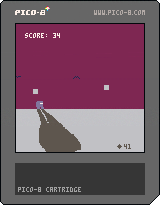
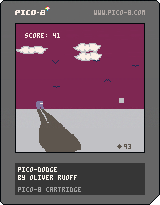
added clouds

diff --git a/pico-dodge.p8.js b/pico-dodge.p8.js
@@ -19,14 +19,14 @@ var _cartdat=[
 0,0,0,0,0,0,0,0,0,0,0,0,0,0,0,0,0,0,0,0,0,0,0,0,0,0,0,0,0,0,0,0,0,0,0,0,0,0,0,0,0,0,0,0,0,0,0,0,0,0,0,0,0,0,0,0,0,0,0,0,0,0,0,0,0,0,0,0,0,0,0,0,0,0,0,0,0,0,0,0,0,0,0,0,0,0,0,0,0,0,0,0,0,0,0,0,0,0,0,0,0,0,0,0,0,0,0,0,0,0,0,0,0,0,0,0,0,0,0,0,0,0,0,0,0,0,0,0,0,0,0,0,0,0,0,0,0,0,0,0,0,0,0,0,0,0,0,0,0,0,0,0,0,0,0,0,0,0,0,0,0,0,0,0,0,0,0,0,0,0,0,0,0,0,0,0,0,0,0,0,0,0,0,0,0,0,0,0,0,0,0,0,0,0,0,0,0,0,0,0,0,0,0,0,0,0,0,0,0,0,0,0,0,0,0,0,0,0,0,0,0,0,0,0,0,0,0,0,0,0,0,0,0,0,0,0,0,0,0,0,0,0,0,0,0,0,0,0,0,0,0,0,0,0,0,0,
 0,0,0,0,0,0,0,0,0,0,0,0,0,0,0,0,0,0,0,0,0,0,0,0,0,0,0,0,0,0,0,0,0,0,0,0,0,0,0,0,0,0,0,0,0,0,0,0,0,0,0,0,0,0,0,0,0,0,0,0,0,0,0,0,0,0,0,0,0,0,0,0,0,0,0,0,1,0,0,1,0,0,0,0,0,0,0,0,0,0,0,0,0,0,0,0,0,0,0,0,0,0,0,0,0,0,0,0,0,0,0,0,0,0,0,0,0,0,0,0,0,0,0,0,0,0,0,0,0,0,0,0,0,0,0,0,0,0,0,0,16,0,16,0,0,0,0,0,0,0,0,0,0,0,0,0,0,0,0,0,0,0,0,0,0,0,0,0,0,0,0,0,0,0,0,0,0,0,0,0,0,0,0,0,0,0,0,0,0,0,0,0,0,1,1,0,0,1,1,0,17,1,17,1,0,1,1,0,17,1,17,1,0,1,1,0,0,0,0,0,0,0,0,0,0,0,0,0,0,0,0,0,0,0,0,0,0,0,0,0,0,0,0,0,0,0,0,0,0,0,0,0,0,0,0,0,
 16,16,16,0,17,16,16,1,0,16,0,0,0,16,0,0,0,16,0,0,17,16,16,1,0,0,0,0,0,0,0,0,0,0,0,0,0,0,0,0,0,0,0,0,0,0,0,0,0,0,0,0,0,0,0,0,0,0,0,0,0,0,0,0,1,0,0,1,0,0,0,0,0,0,0,0,0,0,0,0,0,0,0,0,0,0,0,0,0,0,0,0,0,0,0,0,0,0,0,0,0,0,0,0,0,0,0,0,0,0,0,0,0,0,0,0,0,0,0,0,0,0,0,0,0,0,0,0,0,0,0,0,0,0,0,0,0,0,0,0,0,0,0,0,0,0,0,0,0,0,0,0,0,0,0,0,0,0,0,0,0,0,0,0,0,0,0,0,0,0,0,0,0,0,0,0,0,0,0,0,0,0,0,0,0,0,0,0,0,0,0,0,0,0,0,0,0,0,0,0,0,0,0,0,0,0,0,0,0,0,0,0,0,0,0,0,0,0,0,0,0,0,0,0,0,0,0,0,0,0,0,0,0,0,0,0,0,0,0,0,0,0,0,0,0,0,0,0,0,0,0,0,0,0,0,0,
-0,0,0,0,0,0,0,0,0,0,0,0,0,0,0,0,0,0,0,0,0,0,0,0,0,0,0,0,0,0,0,0,0,0,0,0,0,0,0,0,0,0,0,0,0,0,0,0,0,0,0,0,0,0,0,0,0,0,0,0,0,0,0,0,0,0,0,0,0,0,0,0,0,0,0,0,0,0,0,0,0,0,0,0,0,0,0,0,0,0,0,0,0,0,0,0,0,0,0,0,0,0,0,0,0,0,0,0,0,0,0,0,0,0,0,0,0,0,0,0,0,0,0,0,0,0,0,0,0,0,0,0,0,0,0,0,0,0,0,0,0,0,0,0,0,0,0,0,0,0,0,0,0,0,0,0,0,0,0,0,0,0,0,0,0,0,0,0,0,0,0,0,0,0,0,0,0,0,0,0,0,0,0,0,0,0,0,0,0,0,0,0,0,0,0,0,0,0,0,0,0,0,0,0,0,0,0,0,0,0,0,0,0,0,0,0,0,0,0,0,0,0,0,0,0,0,0,0,0,0,0,0,0,0,0,0,0,0,0,0,0,0,0,0,0,0,0,0,0,0,0,0,0,0,0,0,
-0,0,0,0,0,0,0,0,0,0,0,0,0,0,0,0,0,0,0,0,0,0,0,0,0,0,0,0,0,0,0,0,0,0,0,0,0,0,0,0,0,0,0,0,0,0,0,0,0,0,0,0,0,0,0,0,0,0,0,0,0,0,0,0,0,0,0,0,0,0,0,0,0,0,0,0,0,0,0,0,0,0,0,0,0,0,0,0,0,0,0,0,0,0,0,0,0,0,0,0,0,0,0,0,0,0,0,0,0,0,0,0,0,0,0,0,0,0,0,0,0,0,0,0,0,0,0,0,0,0,0,0,0,0,0,0,0,0,0,0,0,0,0,0,0,0,0,0,0,0,0,0,0,0,0,0,0,0,0,0,0,0,0,0,0,0,0,0,0,0,0,0,0,0,0,0,0,0,0,0,0,0,0,0,0,0,0,0,0,0,0,0,0,0,0,0,0,0,0,0,0,0,0,0,0,0,0,0,0,0,0,0,0,0,0,0,0,0,0,0,0,0,0,0,0,0,0,0,0,0,0,0,0,0,0,0,0,0,0,0,0,0,0,0,0,0,0,0,0,0,0,0,0,0,0,0,
-0,0,0,0,0,0,0,0,0,0,0,0,0,0,0,0,0,0,0,0,0,0,0,0,0,0,0,0,0,0,0,0,0,0,0,0,0,0,0,0,0,0,0,0,0,0,0,0,0,0,0,0,0,0,0,0,0,0,0,0,0,0,0,0,0,0,0,0,0,0,0,0,0,0,0,0,0,0,0,0,0,0,0,0,0,0,0,0,0,0,0,0,0,0,0,0,0,0,0,0,0,0,0,0,0,0,0,0,0,0,0,0,0,0,0,0,0,0,0,0,0,0,0,0,0,0,0,0,0,0,0,0,0,0,0,0,0,0,0,0,0,0,0,0,0,0,0,0,0,0,0,0,0,0,0,0,0,0,0,0,0,0,0,0,0,0,0,0,0,0,0,0,0,0,0,0,0,0,0,0,0,0,0,0,0,0,0,0,0,0,0,0,0,0,0,0,0,0,0,0,0,0,0,0,0,0,0,0,0,0,0,0,0,0,0,0,0,0,0,0,0,0,0,0,0,0,0,0,0,0,0,0,0,0,0,0,0,0,0,0,0,0,0,0,0,0,0,0,0,0,0,0,0,0,0,0,
-0,0,0,0,0,0,0,0,0,0,0,0,0,0,0,0,0,0,0,0,0,0,0,0,0,0,0,0,0,0,0,0,0,0,0,0,0,0,0,0,0,0,0,0,0,0,0,0,0,0,0,0,0,0,0,0,0,0,0,0,0,0,0,0,0,0,0,0,0,0,0,0,0,0,0,0,0,0,0,0,0,0,0,0,0,0,0,0,0,0,0,0,0,0,0,0,0,0,0,0,0,0,0,0,0,0,0,0,0,0,0,0,0,0,0,0,0,0,0,0,0,0,0,0,0,0,0,0,0,0,0,0,0,0,0,0,0,0,0,0,0,0,0,0,0,0,0,0,0,0,0,0,0,0,0,0,0,0,0,0,0,0,0,0,0,0,0,0,0,0,0,0,0,0,0,0,0,0,0,0,0,0,0,0,0,0,0,0,0,0,0,0,0,0,0,0,0,0,0,0,0,0,0,0,0,0,0,0,0,0,0,0,0,0,0,0,0,0,0,0,0,0,0,0,0,0,0,0,0,0,0,0,0,0,0,0,0,0,0,0,0,0,0,0,0,0,0,0,0,0,0,0,0,0,0,0,
-0,0,0,0,0,0,0,0,0,0,0,0,0,0,0,0,0,0,0,0,0,0,0,0,0,0,0,0,0,0,0,0,0,0,0,0,0,0,0,0,0,0,0,0,0,0,0,0,0,0,0,0,0,0,0,0,0,0,0,0,0,0,0,0,0,0,0,0,0,0,0,0,0,0,0,0,0,0,0,0,0,0,0,0,0,0,0,0,0,0,0,0,0,0,0,0,0,0,0,0,0,0,0,0,0,0,0,0,0,0,0,0,0,0,0,0,0,0,0,0,0,0,0,0,0,0,0,0,0,0,0,0,0,0,0,0,0,0,0,0,0,0,0,0,0,0,0,0,0,0,0,0,0,0,0,0,0,0,0,0,0,0,0,0,0,0,0,0,0,0,0,0,0,0,0,0,0,0,0,0,0,0,0,0,0,0,0,0,0,0,0,0,0,0,0,0,0,0,0,0,0,0,0,0,0,0,0,0,0,0,0,0,0,0,0,0,0,0,0,0,0,0,0,0,0,0,0,0,0,0,0,0,0,0,0,0,0,0,0,0,0,0,0,0,0,0,0,0,0,0,0,0,0,0,0,0,
-0,0,0,0,0,0,0,0,0,0,0,0,0,0,0,0,0,0,0,0,0,0,0,0,0,0,0,0,0,0,0,0,0,0,0,0,0,0,0,0,0,0,0,0,0,0,0,0,0,0,0,0,0,0,0,0,0,0,0,0,0,0,0,0,0,0,0,0,0,0,0,0,0,0,0,0,0,0,0,0,0,0,0,0,0,0,0,0,0,0,0,0,0,0,0,0,0,0,0,0,0,0,0,0,0,0,0,0,0,0,0,0,0,0,0,0,0,0,0,0,0,0,0,0,0,0,0,0,0,0,0,0,0,0,0,0,0,0,0,0,0,0,0,0,0,0,0,0,0,0,0,0,0,0,0,0,0,0,0,0,0,0,0,0,0,0,0,0,0,0,0,0,0,0,0,0,0,0,0,0,0,0,0,0,0,0,0,0,0,0,0,0,0,0,0,0,0,0,0,0,0,0,0,0,0,0,0,0,0,0,0,0,0,0,0,0,0,0,0,0,0,0,0,0,0,0,0,0,0,0,0,0,0,0,0,0,0,0,0,0,0,0,0,0,0,0,0,0,0,0,0,0,0,0,0,0,
-0,0,0,0,0,0,0,0,0,0,0,0,0,0,0,0,0,0,0,0,0,0,0,0,0,0,0,0,0,0,0,0,0,0,0,0,0,0,0,0,0,0,0,0,0,0,0,0,0,0,0,0,0,0,0,0,0,0,0,0,0,0,0,0,0,0,0,0,0,0,0,0,0,0,0,0,0,0,0,0,0,0,0,0,0,0,0,0,0,0,0,0,0,0,0,0,0,0,0,0,0,0,0,0,0,0,0,0,0,0,0,0,0,0,0,0,0,0,0,0,0,0,0,0,0,0,0,0,0,0,0,0,0,0,0,0,0,0,0,0,0,0,0,0,0,0,0,0,0,0,0,0,0,0,0,0,0,0,0,0,0,0,0,0,0,0,0,0,0,0,0,0,0,0,0,0,0,0,0,0,0,0,0,0,0,0,0,0,0,0,0,0,0,0,0,0,0,0,0,0,0,0,0,0,0,0,0,0,0,0,0,0,0,0,0,0,0,0,0,0,0,0,0,0,0,0,0,0,0,0,0,0,0,0,0,0,0,0,0,0,0,0,0,0,0,0,0,0,0,0,0,0,0,0,0,0,
-0,0,0,0,0,0,0,0,0,0,0,0,0,0,0,0,0,0,0,0,0,0,0,0,0,0,0,0,0,0,0,0,0,0,0,0,0,0,0,0,0,0,0,0,0,0,0,0,0,0,0,0,0,0,0,0,0,0,0,0,0,0,0,0,0,0,0,0,0,0,0,0,0,0,0,0,0,0,0,0,0,0,0,0,0,0,0,0,0,0,0,0,0,0,0,0,0,0,0,0,0,0,0,0,0,0,0,0,0,0,0,0,0,0,0,0,0,0,0,0,0,0,0,0,0,0,0,0,0,0,0,0,0,0,0,0,0,0,0,0,0,0,0,0,0,0,0,0,0,0,0,0,0,0,0,0,0,0,0,0,0,0,0,0,0,0,0,0,0,0,0,0,0,0,0,0,0,0,0,0,0,0,0,0,0,0,0,0,0,0,0,0,0,0,0,0,0,0,0,0,0,0,0,0,0,0,0,0,0,0,0,0,0,0,0,0,0,0,0,0,0,0,0,0,0,0,0,0,0,0,0,0,0,0,0,0,0,0,0,0,0,0,0,0,0,0,0,0,0,0,0,0,0,0,0,0,
+0,0,0,0,0,0,0,0,0,0,0,0,0,0,0,0,0,0,0,0,0,0,0,0,0,0,0,0,0,0,0,0,0,0,0,0,0,0,0,0,0,0,0,0,0,0,0,0,0,0,0,0,0,0,0,0,0,0,0,0,0,0,0,0,0,0,0,0,0,96,102,0,0,0,0,0,0,0,0,0,0,0,0,0,0,96,102,0,0,0,0,0,0,0,0,0,0,0,0,0,0,0,0,0,0,0,0,0,0,0,0,0,0,0,0,0,0,0,0,0,0,0,0,0,0,0,0,0,0,0,0,0,96,102,103,6,0,0,0,0,0,0,0,0,0,0,0,0,96,102,103,102,102,0,0,0,0,0,0,0,0,0,0,0,0,0,0,0,0,0,0,0,0,0,0,0,0,0,0,0,0,0,0,0,0,0,0,0,0,0,0,0,0,0,0,102,102,119,103,102,102,0,0,0,0,0,0,0,0,0,0,96,102,119,103,119,103,102,6,0,0,0,0,0,0,0,0,0,0,0,0,0,0,0,0,0,0,0,0,0,0,0,0,0,0,0,0,0,0,0,0,0,0,0,0,0,
+0,0,102,118,102,119,119,118,103,102,0,0,0,0,0,0,0,0,96,102,102,119,119,118,119,103,6,0,0,0,0,0,0,0,0,0,0,0,0,0,0,0,0,0,0,0,0,0,0,0,0,0,0,0,0,0,0,0,0,0,0,0,0,0,0,96,102,119,119,119,119,119,103,6,0,0,0,0,0,0,0,0,96,102,119,119,119,119,103,102,0,0,0,0,0,0,0,0,0,0,0,0,0,0,0,0,0,0,0,0,0,0,0,0,0,0,0,0,0,0,0,0,0,0,0,0,0,0,0,0,96,118,103,119,119,102,102,0,0,0,102,6,0,0,0,0,0,102,102,119,119,119,102,0,0,0,102,102,0,0,0,0,0,0,0,0,0,0,0,0,0,0,0,0,0,0,0,0,0,0,0,0,0,0,0,0,0,0,0,0,0,0,96,6,0,102,102,118,103,6,0,0,0,96,0,0,0,0,0,0,0,0,0,118,103,6,0,0,0,0,0,0,0,0,0,0,0,0,0,0,0,0,0,0,0,0,0,0,0,0,0,0,0,0,0,0,0,0,0,0,0,0,0,0,0,0,
+0,6,0,0,0,102,102,0,0,0,0,0,0,0,0,0,0,6,0,0,0,102,102,0,0,0,0,0,0,0,0,0,0,0,0,0,0,0,0,0,0,0,0,0,0,0,0,0,0,0,0,0,0,0,0,0,0,0,0,0,0,0,0,0,0,96,0,0,0,0,0,0,0,0,0,0,0,0,0,0,0,96,6,0,0,0,0,0,0,0,0,0,0,0,0,0,0,0,0,0,0,0,0,0,0,0,0,0,0,0,0,0,0,0,0,0,0,0,0,0,0,0,0,0,0,0,0,0,0,0,0,0,0,0,0,0,0,0,0,0,0,0,0,0,0,0,6,0,0,0,0,0,0,0,0,0,0,0,0,0,0,0,0,0,0,0,0,0,0,0,0,0,0,0,0,0,0,0,0,0,0,0,0,0,0,0,0,0,0,0,0,0,0,0,0,0,0,0,0,0,0,0,0,0,0,0,0,0,0,0,0,0,0,0,0,0,0,0,0,0,0,0,0,0,0,0,0,0,0,0,0,0,0,0,0,0,0,0,0,0,0,0,0,0,0,0,0,0,0,0,0,0,0,0,0,0,
+0,0,0,0,0,0,0,0,0,0,0,0,0,0,0,0,0,0,0,0,0,0,0,0,0,0,0,0,0,0,0,0,0,0,0,0,0,0,0,0,0,0,0,0,0,0,0,0,0,0,0,0,0,0,0,0,0,0,0,0,0,0,0,0,0,0,0,0,102,102,6,0,96,102,102,102,0,0,0,0,0,0,0,0,102,102,6,0,96,102,0,0,0,0,0,0,0,0,0,0,102,102,6,0,96,102,102,102,0,0,0,0,0,0,0,0,0,0,0,0,0,0,0,0,0,0,0,0,0,0,0,102,118,119,102,102,102,119,119,103,6,0,0,0,0,0,0,96,118,119,102,102,102,119,102,6,0,0,0,0,0,0,0,102,118,119,102,102,102,119,119,103,6,0,0,0,0,0,0,0,0,0,0,0,0,0,0,0,0,0,0,0,0,0,0,118,119,119,102,119,103,119,119,119,103,102,6,0,0,0,0,118,119,119,102,119,103,119,119,102,0,0,0,0,0,0,0,118,119,119,102,119,103,119,119,119,103,102,6,0,0,0,0,0,0,0,0,0,0,0,0,0,0,0,0,0,
+0,0,102,118,119,119,119,119,103,119,119,119,103,102,6,0,0,0,102,118,119,119,119,119,103,119,119,103,6,0,0,0,0,0,102,118,119,119,119,119,103,119,119,119,119,119,6,0,0,0,0,0,0,0,0,0,0,0,0,0,0,0,0,0,96,102,118,119,119,119,119,119,119,119,119,119,102,0,0,0,0,0,118,119,119,119,119,119,119,119,119,119,102,0,0,0,96,102,118,119,119,119,119,119,119,119,119,119,119,103,0,0,0,0,0,0,0,0,0,0,0,0,0,0,0,0,0,0,0,102,119,119,119,119,119,119,119,119,119,103,6,0,0,0,0,0,102,102,119,119,119,119,119,119,119,103,0,0,0,0,0,102,119,119,119,119,119,119,119,119,119,119,119,102,0,0,0,0,0,0,0,0,0,0,0,0,0,0,0,0,0,0,0,96,102,103,119,119,118,119,103,118,103,102,0,96,102,0,0,0,0,96,102,119,118,119,103,118,103,6,0,96,102,0,0,96,102,103,119,119,118,119,103,118,119,119,103,0,0,0,0,0,0,0,0,0,0,0,0,0,0,0,0,0,0,0,
+0,0,96,102,118,119,102,119,102,102,102,0,0,6,0,0,0,0,0,0,96,102,102,119,102,102,102,0,0,0,0,6,0,0,96,102,118,119,102,119,102,102,102,119,102,0,0,0,0,0,0,0,0,0,0,0,0,0,0,0,0,0,0,0,0,0,0,0,102,102,102,102,6,0,0,0,0,0,0,0,0,0,0,0,0,96,102,102,6,0,0,0,0,0,0,0,0,0,0,0,102,102,102,102,6,0,96,102,6,0,0,0,0,0,0,0,0,0,0,0,0,0,0,0,0,0,0,0,0,0,0,0,0,0,0,0,0,0,0,0,0,0,0,0,0,0,0,0,0,0,0,0,0,0,0,0,0,0,0,0,0,0,0,0,0,0,0,0,0,0,0,0,0,0,0,0,0,0,0,0,0,0,0,0,0,0,0,0,0,0,0,0,0,0,0,0,0,0,0,0,0,0,0,0,0,0,0,0,0,0,0,0,0,0,0,0,0,0,0,0,0,0,0,0,0,0,0,0,0,0,0,0,0,0,0,0,0,0,0,0,0,0,0,0,0,0,0,0,0,0,0,0,0,0,0,0,
+0,0,0,0,0,0,0,0,0,0,96,102,0,102,102,0,0,0,0,0,0,0,0,0,0,96,102,102,0,102,102,0,0,0,0,0,0,0,0,0,0,0,0,0,0,0,0,0,0,0,0,0,0,0,0,0,0,0,0,0,0,0,0,0,0,0,0,0,6,0,0,0,0,0,96,103,102,119,103,6,0,0,0,0,0,0,0,0,102,102,119,103,102,119,103,6,0,0,0,0,0,0,0,0,0,0,0,0,0,0,0,0,0,0,0,0,0,0,0,0,0,0,0,0,0,0,0,0,0,0,0,0,96,102,0,0,0,96,118,119,103,119,119,102,0,0,0,0,96,102,0,0,102,119,119,119,103,119,119,102,0,0,0,0,0,0,0,0,0,0,0,0,0,0,0,0,0,0,0,0,0,0,0,0,0,0,0,0,0,0,0,0,0,0,0,0,0,0,0,0,96,102,102,119,103,119,103,0,0,0,0,0,0,0,6,0,96,118,119,119,103,119,103,6,0,0,0,0,0,0,0,0,0,0,0,0,0,0,0,0,0,0,0,0,0,0,0,0,0,0,0,0,0,0,0,0,
+96,0,6,0,0,0,0,0,0,0,96,102,119,103,6,0,0,0,0,0,0,0,0,0,0,102,102,102,119,119,102,0,0,0,0,0,0,0,0,0,0,0,0,0,0,0,0,0,0,0,0,0,0,0,0,0,0,0,0,0,0,0,0,0,0,102,96,0,0,0,0,0,0,0,0,96,102,102,0,0,0,102,96,0,0,0,0,0,0,0,96,102,102,102,0,0,0,0,0,0,0,0,0,0,0,0,0,0,0,0,0,0,0,0,0,0,0,0,0,0,0,0,0,0,0,0,0,0,0,0,0,0,0,0,0,0,0,0,0,0,0,0,0,0,0,0,0,0,0,0,0,0,0,0,0,0,0,0,0,0,0,0,0,0,0,0,0,0,0,0,0,0,0,0,0,0,0,0,0,0,0,0,0,0,0,0,0,0,0,0,0,0,0,0,0,0,0,0,0,0,0,0,0,0,0,0,0,0,0,0,0,0,0,0,0,0,0,0,0,0,0,0,0,0,0,0,0,0,0,0,0,0,0,0,0,0,0,0,0,0,0,0,0,0,0,0,0,0,0,0,0,0,0,0,0,0,
 0,0,0,0,0,0,0,0,0,0,0,0,0,0,0,0,0,0,0,0,0,0,0,0,0,0,0,0,0,0,0,0,0,0,0,0,0,0,0,0,0,0,0,0,0,0,0,0,0,0,0,0,0,0,0,0,0,0,0,0,0,0,0,0,0,0,0,0,0,0,0,0,0,0,0,0,0,0,0,0,0,0,0,0,0,0,0,0,0,0,0,0,0,0,0,0,0,0,0,0,0,0,0,0,0,0,0,0,0,0,0,0,0,0,0,0,0,0,0,0,0,0,0,0,0,0,0,0,0,0,0,0,0,0,0,0,0,0,0,0,0,0,0,0,0,0,0,0,0,0,0,0,0,0,0,0,0,0,0,0,0,0,0,0,0,0,0,0,0,0,0,0,0,0,0,0,0,0,0,0,0,0,0,0,0,0,0,0,0,0,0,0,0,0,0,0,0,0,0,0,0,0,0,0,0,0,0,0,0,0,0,0,0,0,0,0,0,0,0,0,0,0,0,0,0,0,0,0,0,0,0,0,0,0,0,0,0,0,0,0,0,0,0,0,0,0,0,0,0,0,0,0,0,0,0,0,
 0,0,0,0,0,0,0,0,0,0,0,0,0,0,0,0,0,0,0,0,0,0,0,0,0,0,0,0,0,0,0,0,0,0,0,0,0,0,0,0,0,0,0,0,0,0,0,0,0,0,0,0,0,0,0,0,0,0,0,0,0,0,0,0,0,0,0,0,0,0,0,0,0,0,0,0,0,0,0,0,0,0,0,0,0,0,0,0,0,0,0,0,0,0,0,0,0,0,0,0,0,0,0,0,0,0,0,0,0,0,0,0,0,0,0,0,0,0,0,0,0,0,0,0,0,0,0,0,0,0,0,0,0,0,0,0,0,0,0,0,0,0,0,0,0,0,0,0,0,0,0,0,0,0,0,0,0,0,0,0,0,0,0,0,0,0,0,0,0,0,0,0,0,0,0,0,0,0,0,0,0,0,0,0,0,0,0,0,0,0,0,0,0,0,0,0,0,0,0,0,0,0,0,0,0,0,0,0,0,0,0,0,0,0,0,0,0,0,0,0,0,0,0,0,0,0,0,0,0,0,0,0,0,0,0,0,0,0,0,0,0,0,0,0,0,0,0,0,0,0,0,0,0,0,0,0,
 0,0,0,0,0,0,0,0,0,0,0,0,0,0,0,0,0,0,0,0,0,0,0,0,0,0,0,0,0,0,0,0,0,0,0,0,0,0,0,0,0,0,0,0,0,0,0,0,0,0,0,0,0,0,0,0,0,0,0,0,0,0,0,0,0,0,0,0,0,0,0,0,0,0,0,0,0,0,0,0,0,0,0,0,0,0,0,0,0,0,0,0,0,0,0,0,0,0,0,0,0,0,0,0,0,0,0,0,0,0,0,0,0,0,0,0,0,0,0,0,0,0,0,0,0,0,0,0,0,0,0,0,0,0,0,0,0,0,0,0,0,0,0,0,0,0,0,0,0,0,0,0,0,0,0,0,0,0,0,0,0,0,0,0,0,0,0,0,0,0,0,0,0,0,0,0,0,0,0,0,0,0,0,0,0,0,0,0,0,0,0,0,0,0,0,0,0,0,0,0,0,0,0,0,0,0,0,0,0,0,0,0,0,0,0,0,0,0,0,0,0,0,0,0,0,0,0,0,0,0,0,0,0,0,0,0,0,0,0,0,0,0,0,0,0,0,0,0,0,0,0,0,0,0,0,0,
@@ -68,19 +68,19 @@ var _cartdat=[
 0,0,0,0,0,0,0,0,0,0,0,0,0,0,0,0,0,16,0,0,0,0,0,0,0,0,0,0,0,0,0,0,0,0,0,0,0,0,0,0,0,0,0,0,0,0,0,0,0,0,0,0,0,0,0,0,0,0,0,0,0,0,0,0,0,0,0,0,0,0,0,0,0,0,0,0,0,0,0,0,0,0,0,0,0,16,0,0,0,0,0,0,0,0,0,0,0,0,0,0,0,0,0,0,0,0,0,0,0,0,0,0,0,0,0,0,0,0,0,0,0,0,0,0,0,0,0,0,0,0,0,0,0,0,0,0,0,0,0,0,0,0,0,0,0,0,0,0,0,0,0,0,0,16,0,0,0,0,0,0,0,0,0,0,0,0,0,0,0,0,0,0,0,0,0,0,0,0,0,0,0,0,0,0,0,0,0,0,0,0,0,0,0,0,0,0,0,0,0,0,0,0,0,0,0,0,0,0,0,0,0,0,0,0,0,0,0,0,0,0,0,16,0,0,0,0,0,0,0,0,0,0,0,0,0,0,0,0,0,0,0,0,0,0,0,0,0,0,0,0,0,0,0,0,0,0,
 0,0,0,0,0,0,0,0,0,0,0,0,0,0,0,0,0,0,0,0,0,0,0,0,0,0,0,0,0,0,0,0,0,16,0,0,0,0,0,0,0,0,0,0,0,0,0,0,0,0,0,0,0,0,0,0,0,0,0,0,0,0,0,0,0,0,0,0,0,0,0,0,0,0,0,0,0,0,0,0,0,0,0,0,0,0,0,0,0,0,0,0,0,0,0,0,0,0,0,0,0,16,0,0,0,0,0,0,0,0,0,0,0,0,0,0,0,0,0,0,0,0,0,0,0,0,0,0,0,0,0,0,0,0,0,0,0,0,0,0,0,0,0,0,0,0,0,0,0,0,0,0,0,0,0,0,0,0,0,0,0,0,0,0,0,0,0,0,0,16,0,0,0,0,0,0,0,0,0,0,0,0,0,0,0,0,0,0,0,0,0,0,0,0,0,0,0,0,0,0,0,0,0,0,0,0,0,0,0,0,0,0,0,0,0,0,0,0,0,0,0,0,0,0,0,0,0,0,0,0,0,0,0,0,0,0,0,16,0,0,0,0,0,0,0,0,0,0,0,0,0,0,0,0,0,0,
 0,0,0,0,0,0,0,0,0,0,0,0,0,0,0,0,0,0,0,0,0,0,0,0,0,0,0,0,0,0,0,0,0,0,0,0,0,0,0,0,0,0,0,0,0,0,0,0,0,16,0,0,0,0,0,0,0,0,0,0,0,0,0,0,0,0,0,0,0,0,0,0,0,0,0,0,0,0,0,0,0,0,0,0,0,0,0,0,0,0,0,0,0,0,0,0,0,0,0,0,0,0,0,0,0,0,0,0,0,0,0,0,0,0,0,0,0,16,0,0,0,0,0,0,0,0,0,0,0,0,0,0,0,0,0,0,0,0,0,0,0,0,0,0,0,0,0,0,0,0,0,0,0,0,0,0,0,0,0,0,0,0,0,0,0,0,0,0,0,0,0,0,0,0,0,0,0,0,0,0,0,0,0,0,0,16,0,0,0,0,0,0,0,0,0,0,0,0,0,0,0,0,0,0,0,0,0,0,0,0,0,0,0,0,0,0,0,0,0,0,0,0,0,0,0,0,0,0,0,0,0,0,0,0,0,0,0,0,0,0,0,0,0,0,0,0,0,0,0,0,0,0,0,16,0,0,
-0,112,120,97,38,79,11,212,103,31,127,127,240,4,55,191,196,236,77,197,61,215,140,220,30,222,253,14,231,63,131,89,206,185,230,160,178,123,131,238,13,22,206,143,82,187,116,231,175,172,100,111,16,46,188,64,218,60,194,70,152,90,98,96,230,172,160,88,40,147,115,6,158,97,32,109,115,145,160,126,100,164,89,200,118,154,206,13,99,221,74,91,197,35,213,59,84,213,35,216,121,102,164,109,42,21,113,221,150,6,113,185,178,177,148,46,68,51,27,81,83,84,87,157,213,118,193,105,65,49,178,176,145,140,52,105,59,212,109,100,59,101,20,229,85,17,57,99,161,73,163,149,38,41,6,188,16,6,55,165,81,220,14,229,253,136,42,65,146,39,11,121,82,44,44,140,220,214,107,8,182,93,30,42,136,188,66,156,38,34,69,43,19,158,242,179,216,232,64,61,210,44,196,237,170,112,129,14,129,36,146,49,154,102,102,81,24,197,79,19,213,134,95,234,188,104,243,122,101,65,182,92,75,185,34,129,150,200,126,32,92,240,60,210,37,27,162,39,62,180,197,200,216,202,92,221,
-142,133,107,89,53,208,119,134,144,56,114,197,88,191,19,68,81,54,52,83,74,167,40,167,152,87,67,160,138,2,253,19,201,0,119,57,67,73,72,100,29,98,130,114,34,202,235,143,239,180,217,225,55,25,167,1,67,60,198,115,56,94,194,238,51,254,146,145,74,191,105,206,149,130,238,53,93,173,97,144,196,202,16,35,117,186,53,166,230,160,216,176,236,205,161,64,143,28,162,103,213,92,38,119,46,91,233,196,136,189,140,10,159,140,108,90,193,89,177,146,57,218,45,237,81,217,243,72,143,255,118,136,24,186,212,203,111,145,241,232,137,255,95,86,103,98,225,119,242,24,74,57,222,86,167,16,28,158,20,32,127,116,196,35,39,227,20,159,185,101,70,38,85,241,156,194,88,170,60,189,94,214,66,221,201,174,72,197,217,163,87,148,25,83,237,93,8,70,135,215,82,13,255,73,4,122,122,182,216,89,78,58,103,40,73,23,138,145,247,37,145,157,164,9,27,111,201,91,213,131,51,201,180,44,79,49,176,24,12,205,21,205,152,247,177,21,206,52,214,209,178,105,213,157,179,45,
-209,176,97,197,176,25,17,108,221,122,75,171,71,38,253,19,153,191,6,236,255,67,139,65,127,30,75,153,34,57,138,185,192,247,120,134,82,19,74,174,199,247,87,52,106,122,207,245,178,60,69,189,151,8,186,230,185,194,230,165,144,17,14,125,122,218,30,117,105,47,103,115,77,136,187,243,45,49,248,115,46,176,77,163,187,174,217,193,52,168,123,213,178,145,25,85,216,106,211,248,220,149,94,141,193,35,228,145,234,56,157,72,156,242,78,145,252,122,250,32,77,151,244,2,5,8,21,58,242,82,74,252,83,226,193,152,192,180,43,23,20,52,139,149,204,126,30,180,207,179,216,255,119,108,255,40,249,39,9,149,200,159,190,120,15,17,242,63,149,140,252,148,66,148,204,43,160,46,225,26,116,13,152,24,8,55,36,148,32,40,200,184,100,27,222,253,100,206,185,101,54,180,20,55,59,189,111,194,161,172,68,227,16,239,10,31,104,225,137,115,52,109,21,37,153,96,143,123,139,62,136,246,186,70,226,36,104,210,116,184,211,28,19,101,238,117,19,102,76,48,95,109,13,159,57,155,
-8,117,92,171,24,173,71,206,45,137,101,239,244,27,19,117,44,88,150,11,105,116,3,105,186,108,110,89,125,229,11,50,97,98,232,157,85,229,48,94,235,76,101,52,57,35,243,116,132,30,164,83,254,255,96,249,240,169,250,211,20,246,81,31,63,125,33,62,158,149,104,101,164,235,149,36,64,51,72,181,150,61,195,21,119,169,164,190,172,175,101,80,17,137,131,19,20,243,39,42,46,165,39,253,38,101,113,170,61,43,168,168,139,63,246,22,24,63,185,72,216,29,249,5,146,93,246,9,104,59,144,115,2,226,41,26,12,52,84,66,1,225,97,197,112,249,98,52,112,182,234,199,202,212,148,243,244,35,54,118,38,166,148,245,213,73,133,103,201,248,129,17,113,143,69,35,123,12,37,186,19,239,68,149,40,65,144,4,3,142,168,170,216,89,230,19,10,17,224,193,29,225,170,138,226,129,161,46,80,164,240,220,214,5,107,18,69,14,92,153,185,161,217,50,209,165,42,226,87,191,30,106,136,115,43,19,12,17,18,60,34,77,82,233,241,139,185,196,124,129,90,2,202,229,144,231,
-243,59,186,253,21,125,15,191,67,120,206,222,190,169,113,78,28,118,2,18,49,251,131,248,196,105,41,177,5,51,8,227,116,193,118,110,2,53,210,57,49,2,113,150,35,164,29,158,226,130,217,226,45,198,243,133,1,47,77,120,225,218,166,33,70,209,161,57,11,20,91,214,90,217,95,52,199,176,183,68,118,166,5,8,36,45,237,5,141,33,59,34,161,150,234,178,4,145,5,230,22,22,88,89,212,118,217,210,70,246,28,81,108,171,86,107,204,18,123,73,230,46,252,20,177,214,146,179,198,38,123,67,8,145,248,115,116,97,162,242,127,154,200,15,246,207,68,57,234,174,193,25,59,149,23,172,110,234,143,99,113,225,144,36,81,146,135,36,139,96,207,178,230,8,219,10,214,187,182,105,250,237,116,45,174,230,87,44,16,101,157,128,196,130,61,188,183,69,180,2,250,37,241,116,185,94,168,149,56,35,8,130,249,66,101,27,184,133,73,91,52,40,211,253,34,113,22,113,139,183,25,119,149,67,249,91,120,62,16,133,189,98,128,92,198,162,67,2,12,18,86,114,202,147,145,177,
-100,116,100,36,215,183,245,213,84,180,43,91,34,208,210,46,209,165,176,238,56,124,214,11,151,67,101,92,94,222,176,255,49,105,255,4,246,21,230,241,136,180,204,5,35,147,189,216,22,240,11,246,179,99,179,155,250,104,238,152,144,85,91,41,151,38,208,89,168,173,68,57,197,216,167,172,172,213,85,132,217,132,78,58,148,75,23,212,210,31,185,31,166,20,11,98,121,247,178,66,184,146,76,148,140,188,69,146,64,204,253,160,68,113,4,1,188,140,202,199,200,133,9,134,14,89,70,38,28,182,162,77,241,192,166,120,151,132,195,163,76,97,158,77,212,11,159,232,171,185,154,226,2,219,71,254,113,97,99,254,220,192,246,207,80,211,236,119,182,230,123,241,41,138,111,90,81,252,76,166,109,255,40,138,172,219,122,6,201,195,35,68,59,219,101,2,225,48,237,118,210,105,140,226,105,184,24,104,100,100,106,104,105,162,108,26,9,101,153,242,200,166,255,255,169,154,254,43,19,77,255,255,255,255,163,153,254,255,255,255,255,52,181,206,154,79,231,2,133,106,237,254,72,204,51,151,
-152,159,86,61,52,102,101,110,162,40,140,155,129,125,255,99,103,168,210,224,209,231,209,229,18,163,88,113,167,60,125,86,243,75,138,44,245,165,50,125,110,104,234,115,5,199,229,124,224,13,137,4,61,148,238,171,25,254,223,246,63,54,5,216,68,232,225,83,183,52,202,37,211,114,154,251,137,81,182,108,214,147,110,56,9,53,20,190,200,67,2,227,75,196,252,1,135,193,18,191,220,26,168,242,15,114,23,159,222,42,105,133,104,41,177,23,73,158,14,74,160,119,65,53,97,107,112,64,68,28,180,25,236,207,109,87,113,16,145,12,1,6,146,172,140,236,2,117,176,254,125,148,196,15,129,223,174,29,115,242,185,137,53,93,142,133,145,41,218,37,76,189,165,159,166,193,37,160,171,116,10,235,131,178,127,30,136,100,211,35,126,190,205,64,54,253,194,240,144,189,137,45,185,30,49,132,213,156,71,67,37,124,87,186,33,31,177,90,208,84,111,191,245,74,238,83,138,252,80,99,243,173,204,121,8,67,212,27,218,61,149,118,248,37,99,100,75,181,181,90,110,89,81,252,114,194,
-128,175,44,142,129,129,82,53,185,215,67,85,145,15,135,141,87,253,252,255,255,255,255,255,75,188,126,146,135,138,232,255,37,138,41,96,36,145,254,83,39,116,126,164,206,9,156,40,233,89,46,208,190,226,56,250,236,21,181,149,83,255,57,33,82,49,168,169,30,169,222,8,30,71,166,92,177,1,67,37,83,1,98,140,131,176,9,16,85,224,136,27,120,155,44,184,65,167,114,207,51,221,94,97,8,3,12,205,100,129,163,162,34,35,102,178,40,58,194,80,67,2,97,134,199,218,228,168,229,178,108,57,191,161,8,170,108,95,98,252,66,85,81,141,241,255,255,182,182,69,198,79,48,26,175,166,249,255,255,45,102,3,197,241,99,198,114,186,230,217,214,53,209,104,201,118,98,189,33,190,42,82,88,57,97,138,147,70,237,129,51,101,201,82,75,59,101,201,13,116,86,14,235,137,149,255,81,71,255,255,76,139,149,31,203,90,229,199,132,86,33,208,141,200,148,200,177,164,42,197,138,251,96,153,113,104,234,108,90,129,192,10,97,179,48,11,176,114,28,75,238,184,55,97,96,146,
-32,96,204,49,77,137,198,159,138,62,34,76,134,93,19,255,54,204,88,209,248,125,83,246,167,122,132,66,142,214,120,178,29,4,22,159,142,169,128,149,146,249,31,119,105,153,106,221,67,210,220,206,143,178,161,163,180,205,31,161,112,74,156,195,247,84,58,135,239,35,120,46,219,71,247,60,174,143,252,161,46,249,163,130,126,75,76,138,94,249,70,217,253,7,200,142,67,220,133,179,203,47,149,71,233,86,133,240,105,184,207,249,19,115,151,241,167,234,30,223,79,222,77,207,253,83,240,110,142,40,73,37,96,161,159,22,52,255,203,94,230,19,172,49,180,172,249,71,78,228,119,213,189,144,136,189,117,194,47,65,123,152,255,18,183,135,249,45,116,47,239,91,244,62,214,183,0,166,237,45,134,255,224,6,41,133,20,134,62,154,70,181,33,50,8,176,35,118,153,131,216,204,229,189,185,177,29,103,92,192,223,38,170,27,113,130,208,230,225,126,114,149,193,64,178,7,109,4,70,24,72,146,8,57,202,3,180,166,80,36,126,4,90,228,48,255,133,65,100,182,175,150,248,127,175,169,
-145,216,97,181,116,157,154,73,87,21,217,70,23,86,69,52,24,185,35,92,15,102,188,181,91,86,62,218,197,108,243,82,33,57,151,3,134,11,241,20,132,156,116,117,160,30,216,68,97,239,14,156,37,143,175,230,251,178,50,90,158,64,5,249,92,217,108,203,176,35,137,20,194,191,168,113,253,165,23,102,252,79,164,33,132,0,114,201,122,35,88,57,155,64,199,252,167,62,121,130,1,39,235,182,91,49,62,206,154,218,182,156,104,192,126,52,47,47,15,115,193,249,120,234,81,209,84,201,101,18,22,143,112,249,1,113,230,84,46,255,79,96,36,71,113,130,47,56,129,252,64,232,18,9,90,218,32,255,1,9,228,211,51,145,67,77,181,234,131,200,229,83,10,12,124,196,195,36,213,1,26,202,58,225,7,124,139,172,24,69,126,103,118,57,23,24,238,5,198,255,131,218,197,213,52,18,195,9,190,144,183,13,56,217,28,221,198,24,238,29,73,149,7,227,8,89,224,252,208,78,95,81,163,133,145,136,18,40,16,55,78,34,114,115,200,72,73,141,99,51,153,191,32,9,166,161,
-246,84,105,5,64,76,245,212,255,159,210,236,208,83,255,173,19,158,82,64,253,183,82,248,4,212,33,159,254,100,234,233,127,221,39,158,78,229,122,248,212,109,18,139,52,130,102,28,30,39,199,142,54,67,56,183,129,223,36,92,101,162,144,40,212,205,90,230,100,178,179,129,107,13,53,135,175,35,19,90,250,208,113,108,204,119,65,228,179,11,214,210,140,41,199,49,24,168,61,142,76,202,235,135,61,75,167,70,214,6,115,177,253,0,162,121,96,248,96,144,1,75,184,159,124,11,3,197,202,68,227,10,90,41,16,8,144,195,72,235,96,100,205,43,186,226,218,233,206,168,211,157,136,245,199,56,186,12,27,70,235,13,244,44,26,187,96,192,77,83,110,50,227,22,44,12,80,170,128,53,167,173,117,192,5,222,90,145,13,116,163,108,96,226,189,72,41,124,186,161,211,195,194,230,129,249,114,142,213,196,66,226,57,152,39,72,35,186,39,103,106,120,103,134,119,106,248,150,26,226,14,52,196,29,104,136,59,40,80,51,16,78,145,208,8,141,168,195,107,12,160,14,255,155,102,43,
-203,13,227,134,71,72,0,113,131,201,131,252,64,222,16,215,63,156,133,52,108,251,163,81,130,151,251,175,32,88,218,91,232,162,100,74,81,252,155,153,30,170,5,75,0,59,28,10,39,93,103,19,188,14,63,160,202,92,116,29,104,9,184,14,182,15,91,7,99,8,250,106,109,143,53,96,67,163,113,242,163,70,185,240,79,103,165,85,39,35,152,147,3,2,213,127,140,24,192,254,194,93,98,88,47,143,93,36,196,213,119,154,44,206,3,134,114,106,32,205,201,141,71,95,206,80,75,94,207,8,169,135,255,196,149,195,38,144,68,255,37,42,142,32,50,42,164,135,31,182,97,244,112,58,6,209,131,176,75,60,140,30,126,170,182,139,208,195,31,169,79,52,74,198,158,228,93,116,74,49,130,250,190,152,3,189,2,3,236,147,160,95,227,106,97,120,3,83,250,227,102,229,143,122,94,62,4,47,144,90,21,29,0,0,0,0,0,0,0,0,0,0,0,0,0,0,0,0,0,0,0,0,0,0,0,0,0,0,0,0,0,0,0,0,0,0,0,0,0,0,0,0,0,0,0,0,
-0,0,0,0,0,0,0,0,0,0,0,0,0,0,0,0,0,0,0,0,0,0,0,0,0,0,0,0,0,0,0,0,0,0,0,0,0,0,0,0,0,0,0,0,0,0,0,0,0,0,0,0,0,0,0,0,0,0,0,0,0,0,0,0,0,0,0,0,0,0,0,0,0,0,0,0,0,0,0,0,0,0,0,0,0,0,0,0,0,0,0,0,0,0,0,0,0,0,0,0,0,0,0,0,0,0,0,0,0,0,0,0,0,0,0,0,0,0,0,0,0,0,0,0,0,0,0,0,0,0,0,0,0,0,0,0,0,0,0,0,0,0,0,0,0,0,0,0,0,0,0,0,0,0,0,0,0,0,0,0,0,0,0,0,0,0,0,0,0,0,0,0,0,0,0,0,0,0,0,0,0,0,0,0,0,0,0,0,0,0,0,0,0,0,0,0,0,0,0,0,0,0,0,0,0,0,0,0,0,0,0,0,0,0,0,0,0,0,0,0,0,0,0,0,0,0,0,0,0,0,0,0,0,0,0,0,0,0,0,0,0,0,0,0,0,0,0,0,0,0,0,0,0,0,0,0,
+0,112,120,97,43,2,12,238,235,193,226,3,156,126,245,3,84,119,39,197,233,151,111,184,225,242,151,104,187,251,219,119,8,31,33,43,222,161,187,63,104,131,162,108,130,234,250,54,60,174,56,236,172,116,32,188,191,31,120,7,179,28,117,211,89,101,247,10,221,43,44,76,69,169,93,186,161,149,149,236,21,194,133,165,180,25,219,8,83,75,12,204,28,22,20,11,101,114,209,192,59,12,164,109,46,18,212,143,140,52,11,153,186,200,84,60,214,173,196,97,61,82,173,85,213,156,157,103,70,22,154,74,69,92,183,165,27,241,64,235,121,222,166,74,80,204,84,83,113,22,77,140,68,77,81,221,117,88,220,5,82,38,3,19,35,35,77,153,14,117,27,217,94,25,69,117,85,68,206,24,104,210,104,165,73,138,222,11,97,112,84,26,197,237,74,222,111,84,27,210,231,8,86,82,13,193,174,42,115,5,145,87,72,55,18,225,162,145,222,83,126,22,27,205,71,38,154,129,184,29,149,74,208,33,144,73,50,70,211,140,44,138,165,248,105,162,90,245,75,157,23,109,94,143,44,200,
+150,107,41,87,36,208,18,217,15,52,24,158,71,186,100,67,8,197,135,182,24,153,91,153,171,219,173,112,45,171,6,250,206,16,18,71,174,88,235,119,130,40,202,134,102,74,57,21,53,21,243,106,8,84,81,160,127,34,25,224,46,103,40,9,9,175,67,76,80,78,68,141,253,241,157,94,59,252,38,237,52,96,136,199,120,14,199,75,236,125,198,95,50,82,105,58,205,185,82,228,189,166,171,53,12,146,88,45,98,164,78,183,198,212,28,20,27,22,189,57,20,232,145,67,244,172,154,203,228,206,101,43,237,24,177,151,81,225,147,145,77,43,56,43,86,50,71,187,165,61,42,123,30,233,241,223,14,17,67,151,122,249,45,50,30,61,241,255,203,234,76,44,252,78,30,67,61,199,219,234,20,130,195,147,2,228,143,142,120,228,100,156,226,51,183,204,200,164,42,158,83,24,75,169,167,215,203,90,168,59,217,21,169,56,123,244,138,50,99,74,190,11,193,232,240,90,170,235,63,137,64,79,207,22,59,203,73,231,12,37,233,66,49,242,190,36,178,147,52,97,227,45,121,171,122,112,
+38,153,150,229,41,6,22,131,161,185,162,25,243,62,182,194,153,198,58,90,54,173,186,115,182,37,26,54,172,24,54,35,130,173,91,111,105,245,200,164,127,34,243,215,128,253,127,104,49,232,207,99,41,83,36,71,49,23,248,30,207,80,106,66,201,245,248,254,138,70,77,239,185,94,150,167,168,247,18,65,215,60,87,216,188,20,50,194,161,79,79,219,163,46,237,229,108,174,9,113,119,190,37,6,127,206,5,182,105,116,215,53,59,152,6,117,175,90,54,50,163,10,91,109,26,159,187,210,171,49,120,132,60,82,29,167,19,137,83,222,41,146,95,79,31,164,233,146,94,160,0,161,66,71,94,74,137,127,74,60,24,19,152,118,229,130,130,102,177,146,217,207,131,246,121,22,251,255,142,237,31,37,255,36,161,18,249,211,23,239,33,66,254,167,146,145,159,82,136,146,121,5,212,37,92,131,179,1,19,3,225,134,132,18,4,5,25,151,118,195,187,159,204,57,183,204,134,150,226,102,167,247,77,56,148,149,184,28,226,93,225,3,45,60,113,142,166,173,162,36,19,236,113,111,209,7,
+17,236,6,72,156,20,69,89,14,87,154,99,162,204,185,110,194,138,9,230,171,169,225,51,103,19,161,142,107,21,163,245,200,57,37,177,236,157,137,137,133,58,22,44,203,133,52,186,129,52,93,54,183,172,190,242,5,153,48,49,244,174,170,114,24,175,117,166,50,154,156,145,121,58,106,15,210,41,255,127,240,125,248,84,253,105,10,251,168,143,159,190,16,31,255,193,7,98,42,233,255,141,18,226,149,31,63,164,132,212,207,63,99,169,159,103,36,154,29,233,122,41,11,210,13,146,205,133,223,112,197,93,170,233,47,235,107,153,158,68,226,224,4,201,254,137,138,75,106,74,64,74,89,156,114,211,18,46,234,226,143,189,5,198,79,88,19,118,71,126,65,22,248,194,62,78,192,51,33,208,10,136,167,112,52,208,80,13,134,132,7,86,195,229,139,209,192,217,50,31,43,83,83,206,19,176,216,216,153,152,146,246,87,39,21,158,37,227,135,134,196,61,22,141,236,65,156,232,78,188,19,85,162,4,65,18,12,56,162,170,98,103,153,79,40,68,195,135,183,132,171,42,138,7,134,186,
+64,18,195,115,91,23,172,73,20,57,112,102,231,134,102,200,68,151,170,136,95,253,122,168,33,206,173,76,48,68,72,240,136,52,73,165,199,47,232,19,243,5,235,9,40,151,67,32,207,239,232,246,87,80,36,192,239,208,158,244,179,18,158,189,125,83,243,165,56,236,68,72,98,246,7,130,138,211,82,226,11,102,80,234,233,130,237,220,4,234,164,115,226,4,98,45,71,72,61,60,197,5,179,197,91,140,231,11,3,94,154,240,194,181,77,131,176,162,67,115,22,40,182,172,181,178,191,104,142,97,111,169,254,76,11,16,72,92,218,139,98,67,118,68,66,45,213,101,9,199,11,204,45,44,0,189,168,237,178,165,141,236,57,162,216,86,173,214,152,37,246,146,204,93,60,44,98,173,37,103,141,77,246,134,16,34,241,231,232,194,68,229,255,52,145,31,236,159,137,114,212,93,131,51,118,42,47,88,221,212,31,199,226,194,33,73,162,44,15,137,22,5,159,101,205,17,216,22,172,119,109,211,244,219,233,90,92,205,175,88,32,202,58,65,137,5,123,120,111,11,177,5,244,75,226,233,
+114,189,80,43,113,70,16,4,243,133,234,54,1,12,163,191,104,80,166,251,69,226,44,4,24,111,51,238,42,135,2,193,240,124,32,18,123,197,0,94,141,69,135,4,92,38,172,228,148,39,35,99,201,232,200,72,174,119,235,171,169,104,87,182,68,160,165,93,194,93,97,221,113,248,172,23,46,135,202,184,188,188,97,255,99,210,254,9,236,43,212,227,17,105,153,11,70,38,123,241,45,2,25,236,103,199,102,55,245,209,220,49,33,171,182,82,46,77,176,188,80,91,137,116,138,177,79,89,89,187,171,8,179,9,157,116,40,151,46,168,165,63,242,63,144,43,22,196,242,238,101,135,112,37,153,40,25,10,140,36,129,152,251,129,173,226,8,2,154,26,149,143,145,11,19,12,29,178,140,76,56,108,133,191,226,161,95,241,46,9,135,71,153,194,60,155,232,23,62,209,87,115,53,197,5,182,143,252,227,194,198,252,185,129,237,159,161,166,217,239,108,13,28,227,83,20,223,180,162,248,153,76,219,254,81,20,89,183,245,12,35,136,71,136,118,182,203,4,194,97,218,237,164,211,24,197,
+213,112,65,217,200,200,212,208,210,68,217,52,18,202,50,229,145,77,255,255,83,53,253,87,38,154,254,255,255,255,71,51,253,255,255,255,255,105,106,157,53,159,206,5,10,213,218,253,145,152,103,46,49,63,173,122,104,204,202,220,68,81,24,55,3,251,254,199,206,80,165,193,163,207,163,203,37,70,177,226,78,121,250,172,230,151,20,89,234,75,101,250,220,208,212,231,10,142,203,249,96,48,18,9,122,40,221,87,51,252,191,237,127,108,10,176,137,208,195,167,110,105,148,75,166,229,52,247,19,163,108,217,172,39,221,112,18,106,40,13,146,7,77,198,151,136,249,3,14,131,37,126,185,53,80,229,31,40,49,62,189,85,210,10,209,82,130,65,146,60,29,148,64,239,130,106,194,214,224,128,136,56,104,51,216,159,219,174,2,51,34,25,2,46,37,89,25,217,5,234,96,253,251,40,137,31,2,191,93,59,230,228,115,19,107,186,28,11,35,83,72,78,152,122,75,63,77,131,75,64,87,233,148,30,8,101,255,60,16,201,166,71,252,124,155,129,108,250,133,225,33,123,19,91,114,61,
+98,8,171,57,143,134,74,248,174,116,67,62,98,181,160,169,222,126,235,149,220,167,20,249,161,198,230,91,153,243,16,134,168,55,180,123,42,237,240,75,198,200,150,106,107,181,220,178,162,248,229,132,1,95,89,28,3,3,165,106,114,175,135,170,34,31,48,28,175,250,249,255,255,255,255,255,151,120,253,36,15,21,209,255,75,20,83,192,72,34,253,167,78,232,252,72,157,35,65,81,210,179,92,160,125,197,113,244,217,43,106,43,167,254,115,66,164,98,80,83,61,82,189,17,205,142,76,185,98,131,206,74,166,2,228,24,7,242,19,32,170,192,17,55,0,64,89,112,131,78,229,158,103,186,189,194,16,6,24,154,201,2,71,69,69,134,240,100,81,116,132,161,134,4,194,12,143,181,201,81,203,101,217,114,126,67,17,84,217,190,196,248,133,170,162,26,227,255,255,109,109,139,140,159,160,52,94,77,243,255,255,91,204,6,138,227,199,140,229,116,205,179,173,107,162,209,146,237,196,122,67,192,87,164,176,114,194,20,55,141,218,131,175,202,146,165,22,191,202,146,27,112,177,28,214,19,
+43,255,163,142,254,255,153,22,43,63,150,181,202,143,9,173,66,192,27,145,41,145,99,73,85,138,21,247,193,50,227,208,212,217,180,2,18,22,210,111,97,22,96,230,56,150,220,113,111,2,229,36,65,192,156,99,154,18,141,63,21,125,68,152,12,187,38,254,109,152,177,162,241,251,166,236,79,245,8,133,28,173,241,100,59,8,44,62,29,83,1,43,37,243,63,238,210,50,213,186,135,164,185,157,31,101,67,71,105,155,63,66,225,148,56,135,239,169,116,14,223,71,240,92,182,143,238,121,92,31,249,67,93,242,71,5,253,150,152,20,189,242,141,178,251,15,144,29,135,184,11,248,151,95,42,143,210,173,10,225,211,112,159,243,39,230,46,227,79,213,61,190,159,188,155,158,251,167,224,221,28,81,146,74,192,66,63,45,104,254,23,6,205,39,88,99,104,89,243,143,164,200,239,170,123,33,17,123,235,132,95,130,246,48,255,37,110,15,243,91,232,94,222,183,232,125,172,111,1,76,219,91,12,255,193,13,82,44,42,12,125,52,141,106,67,100,16,96,71,14,52,7,66,154,203,123,
+115,99,59,206,184,0,18,78,84,55,226,132,233,205,3,34,229,42,131,129,100,15,226,8,140,48,144,36,17,3,149,135,176,77,161,72,252,8,180,200,97,254,11,131,200,108,95,45,241,255,94,83,35,177,195,106,233,58,53,147,174,42,178,141,46,172,138,104,48,114,71,184,30,204,120,107,183,172,124,180,203,253,230,165,68,114,46,7,12,23,226,41,82,58,233,234,64,61,176,137,194,222,29,120,75,30,95,205,247,101,101,180,60,129,10,242,185,178,217,150,97,71,18,41,132,127,81,227,250,75,47,204,248,159,72,67,8,1,228,146,245,102,194,114,54,129,142,249,79,125,242,4,3,78,214,109,183,98,124,156,53,181,109,57,209,128,253,104,94,94,30,230,130,243,241,212,163,162,169,146,203,36,44,30,225,242,131,42,205,169,92,254,159,192,72,142,226,4,95,112,2,249,193,244,37,18,180,180,65,254,3,18,200,167,103,34,135,154,106,213,135,217,203,167,20,24,248,136,135,73,170,3,52,148,117,194,15,248,22,89,49,138,252,206,236,114,46,48,220,11,140,255,7,181,139,171,
+105,36,134,19,124,33,111,27,128,187,57,186,141,49,254,60,146,42,15,198,17,194,201,249,161,157,190,162,102,29,35,17,37,80,32,110,156,132,8,231,144,145,146,26,199,102,50,127,65,18,76,83,246,169,210,10,17,153,234,169,255,63,165,217,161,167,254,91,39,60,165,128,250,111,165,240,9,168,67,62,253,201,212,211,255,186,79,60,157,202,245,240,169,219,36,22,145,9,205,56,60,78,142,29,109,134,112,110,3,191,73,64,207,68,33,81,168,27,254,204,9,137,103,3,215,26,106,14,95,71,38,180,244,161,227,216,152,239,130,200,103,23,172,165,25,83,142,99,48,80,123,28,153,148,215,15,123,150,78,141,172,13,230,98,251,33,86,243,208,249,193,32,3,150,112,63,249,22,6,138,149,137,198,21,180,82,32,16,32,135,145,214,193,200,154,87,116,197,181,211,157,81,167,59,17,235,143,113,117,25,54,140,214,27,232,89,52,118,193,128,155,166,220,100,198,45,88,24,160,84,1,107,78,91,235,128,11,188,181,34,27,232,70,217,192,196,123,145,82,248,116,67,167,135,133,205,
+3,247,229,28,171,137,133,196,115,48,79,144,70,116,79,206,212,240,206,12,239,212,240,45,53,196,29,104,136,59,208,16,119,80,160,102,32,65,35,177,26,26,81,135,215,24,64,29,254,55,205,86,150,27,198,13,143,144,0,226,6,147,7,249,129,188,33,174,127,192,15,105,216,246,71,163,4,47,247,95,65,176,180,183,208,69,201,148,162,248,55,51,61,84,11,150,0,118,56,20,78,186,206,38,120,29,126,64,149,185,232,58,208,18,112,29,108,31,182,14,230,34,244,213,218,30,107,4,137,6,124,229,191,217,52,84,102,33,21,39,35,170,147,3,2,209,127,140,24,192,254,162,93,98,86,47,143,93,36,196,149,103,146,44,206,227,133,114,74,32,205,201,141,71,94,206,80,75,94,207,8,168,135,255,196,167,195,38,80,68,255,37,42,142,32,50,42,163,135,31,182,65,244,112,58,134,208,131,168,75,60,136,30,126,138,182,11,208,195,47,202,75,211,173,255,156,37,92,255,63,3,194,245,145,18,74,18,90,38,60,4,18,130,71,78,80,230,37,133,224,19,50,203,103,199,82,
+177,229,213,91,254,88,136,45,53,147,141,121,62,185,167,4,241,1,17,193,202,225,19,19,127,228,178,92,165,143,255,255,209,192,150,75,219,232,125,164,130,111,212,56,167,12,158,167,116,112,205,36,132,255,255,47,248,163,151,161,12,153,239,96,112,114,185,197,123,36,17,183,245,201,45,251,67,98,219,146,83,77,104,78,30,63,132,14,3,129,29,175,237,77,232,236,75,33,92,86,20,8,24,109,38,21,196,93,250,219,10,179,205,4,124,150,127,82,226,151,140,248,175,46,226,211,242,179,9,80,47,72,171,80,126,83,199,52,25,240,123,67,191,55,242,59,71,244,195,27,232,135,55,208,15,111,80,72,252,255,35,20,228,42,144,123,255,169,62,46,205,116,40,253,63,198,147,250,159,229,18,177,63,51,54,82,255,159,54,125,197,254,31,84,61,229,50,85,230,82,222,230,54,21,35,104,217,7,120,210,45,49,144,45,44,72,254,184,90,254,222,180,166,254,184,89,242,163,186,64,62,132,109,146,54,117,115,0,0,0,0,0,0,0,0,0,0,0,0,0,0,0,0,0,0,0,
 0,0,0,0,0,0,0,0,0,0,0,0,0,0,0,0,0,0,0,0,0,0,0,0,0,0,0,0,0,0,0,0,0,0,0,0,0,0,0,0,0,0,0,0,0,0,0,0,0,0,0,0,0,0,0,0,0,0,0,0,0,0,0,0,0,0,0,0,0,0,0,0,0,0,0,0,0,0,0,0,0,0,0,0,0,0,0,0,0,0,0,0,0,0,0,0,0,0,0,0,0,0,0,0,0,0,0,0,0,0,0,0,0,0,0,0,0,0,0,0,0,0,0,0,0,0,0,0,0,0,0,0,0,0,0,0,0,0,0,0,0,0,0,0,0,0,0,0,0,0,0,0,0,0,0,0,0,0,0,0,0,0,0,0,0,0,0,0,0,0,0,0,0,0,0,0,0,0,0,0,0,0,0,0,0,0,0,0,0,0,0,0,0,0,0,0,0,0,0,0,0,0,0,0,0,0,0,0,0,0,0,0,0,0,0,0,0,0,0,0,0,0,0,0,0,0,0,0,0,0,0,0,0,0,0,0,0,0,0,0,0,0,0,0,0,0,0,0,0,0,0,0,0,0,0,0,
 0,0,0,0,0,0,0,0,0,0,0,0,0,0,0,0,0,0,0,0,0,0,0,0,0,0,0,0,0,0,0,0,0,0,0,0,0,0,0,0,0,0,0,0,0,0,0,0,0,0,0,0,0,0,0,0,0,0,0,0,0,0,0,0,0,0,0,0,0,0,0,0,0,0,0,0,0,0,0,0,0,0,0,0,0,0,0,0,0,0,0,0,0,0,0,0,0,0,0,0,0,0,0,0,0,0,0,0,0,0,0,0,0,0,0,0,0,0,0,0,0,0,0,0,0,0,0,0,0,0,0,0,0,0,0,0,0,0,0,0,0,0,0,0,0,0,0,0,0,0,0,0,0,0,0,0,0,0,0,0,0,0,0,0,0,0,0,0,0,0,0,0,0,0,0,0,0,0,0,0,0,0,0,0,0,0,0,0,0,0,0,0,0,0,0,0,0,0,0,0,0,0,0,0,0,0,0,0,0,0,0,0,0,0,0,0,0,0,0,0,0,0,0,0,0,0,0,0,0,0,0,0,0,0,0,0,0,0,0,0,0,0,0,0,0,0,0,0,0,0,0,0,0,0,0,0,
 0,0,0,0,0,0,0,0,0,0,0,0,0,0,0,0,0,0,0,0,0,0,0,0,0,0,0,0,0,0,0,0,0,0,0,0,0,0,0,0,0,0,0,0,0,0,0,0,0,0,0,0,0,0,0,0,0,0,0,0,0,0,0,0,0,0,0,0,0,0,0,0,0,0,0,0,0,0,0,0,0,0,0,0,0,0,0,0,0,0,0,0,0,0,0,0,0,0,0,0,0,0,0,0,0,0,0,0,0,0,0,0,0,0,0,0,0,0,0,0,0,0,0,0,0,0,0,0,0,0,0,0,0,0,0,0,0,0,0,0,0,0,0,0,0,0,0,0,0,0,0,0,0,0,0,0,0,0,0,0,0,0,0,0,0,0,0,0,0,0,0,0,0,0,0,0,0,0,0,0,0,0,0,0,0,0,0,0,0,0,0,0,0,0,0,0,0,0,0,0,0,0,0,0,0,0,0,0,0,0,0,0,0,0,0,0,0,0,0,0,0,0,0,0,0,0,0,0,0,0,0,0,0,0,0,0,0,0,0,0,0,0,0,0,0,0,0,0,0,0,0,0,0,0,0,0,

diff --git a/pico-dodge.p8.html b/pico-dodge.p8.html
@@ -982,7 +982,7 @@ canvas{
 
 .p8_start_button{
 	cursor:pointer;
[2 lines of base64/hex data omitted]
 	-repeat center;
 	-webkit-background-size:cover; -moz-background-size:cover; -o-background-size:cover; background-size:cover;
 }

diff --git a/README.md b/README.md
@@ -1,12 +1,13 @@
 # Pico-Dodge
 A small Pico-8 game, based on an android game I coded in university during a 48h hackathon.
 
-## Cardridge 
+## Cartridge 
 ![Pico-Dodge](pico-dodge.p8.png)
 > Note to me: Cardridge picture can be taken by pressing F2 while playing
 ## Changelog
 
 ### 2024-01-24
+- Added clouds
 - Added highscore incl. saving & loading
 
 ### 2024-01-20
